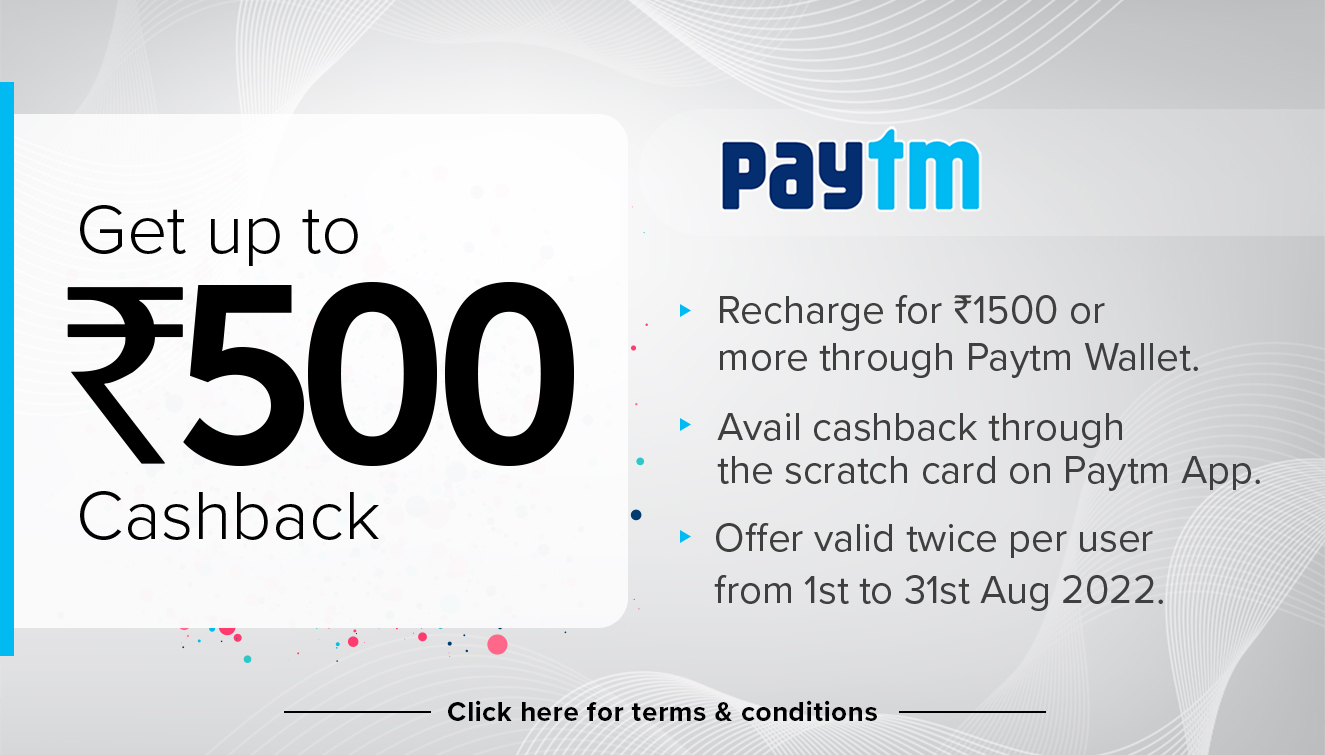
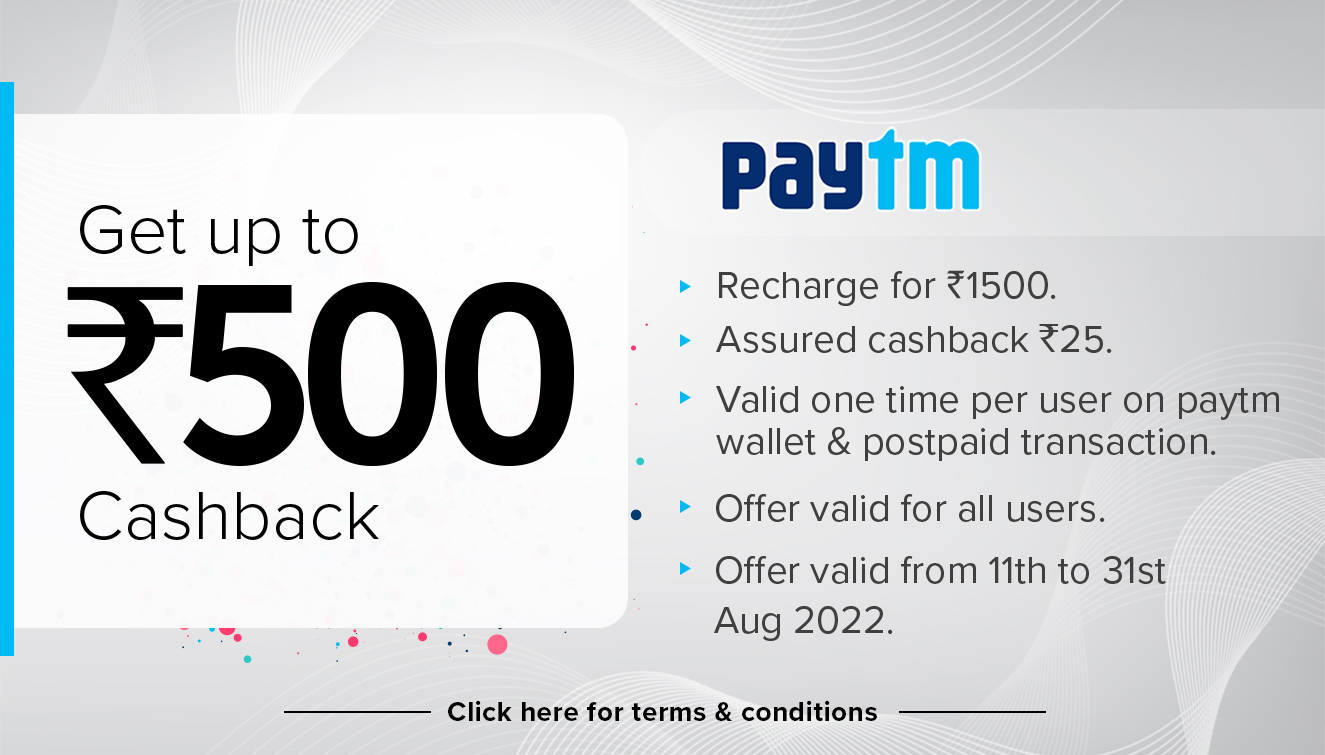
new files updates
new file updates

Changed region(s): [[0.526, 0.3351, 0.9592, 0.853]]

diff --git a/grouphtmls/bankoffer/freecharge.html b/grouphtmls/bankoffer/freecharge.html
@@ -94,30 +94,24 @@
       <div class="col-12 text-center" style="padding-top: 10%">
         <h1>Terms and Conditions</h1>
         <p class="text-left" style="padding-top: 5%; font-weight: normal; font-size: 16px">
-          <strong>Get flat Rs25/- cashback on min. recharge of Rs249/-
-          </strong>
+          <strong>Get flat Rs30/- cashback on min. recharge of Rs499/-</strong>
           <br />
           <br>
           1. To avail this Offer, the customer needs to undertake a successful transaction on bbdaily. <br>
-          2. The customer shall receive 10% cashback, flat Rs25/- on the transaction value in the form of Freecharge
-          Gift Instrument within 72 (seventy-two) hours from the date of the transaction which can be redeemed on the
-          Freecharge website or Freecharge application or any other merchant website wherein Freecharge Balance is
-          acceptable, within 1095 days from the date of the credit and is non-transferable. <br>
+          2. The customer shall receive flat Rs30/- on the transaction value in the form of Freecharge Gift Instrument within 72 
+          (seventy-two) hours from the date of the transaction which can be redeemed on the Freecharge website or Freecharge 
+          application or any other merchant website wherein Freecharge Balance is acceptable, within 1095 days from the date of the credit and is non-transferable. <br>
           3. This offer is applicable on the bbdaily app. <br>
-          4. This cashback Offer is valid from 1st May 2021 to 31st August 2022. <br>
-          5. The Offer is valid once per user per Freecharge Account/device/mobile number till 31st August 2022. <br>
+          4. This cashback Offer is valid from 20th August to 30th September 2022. <br>
+          5. The Offer is valid once per user per Freecharge Account/device/mobile number till 30th September 2022. <br>
           6. The offer is not applicable on payment through UPI. <br>
-          7. In case of order cancellation, a refund by Freecharge Wallet will be processed within 7 to 10 working days.
-          <br>
-          8. In case of a complete or partial order cancellation/return, the entire cashback amount will be deducted
-          from the total refund. <br>
-          9. The customer can use the Freecharge Gift Instrument received under this offer for subsequent transactions
-          on Freecharge. <br>
-          10 Freecharge reserves the right to disqualify any Freecharge Account from the benefits of this offer in case
-          of any illegal, suspicious, fraudulent, or potentially fraudulent transaction/activity or misuse of the Offer.
-          <br>
-          11. Freecharge reserves the right to modify/change all or any of the terms applicable to this offer or
-          discontinue this offer without assigning any reasons or without any prior intimation whatsoever. <br>
+          7. In case of order cancellation, a refund by Freecharge Wallet will be processed within 7 to 10 working days. <br>
+          8. In case of a complete or partial order cancellation/return, the entire cashback amount will be deducted from the total refund. <br>
+          9. The customer can use the Freecharge Gift Instrument received under this offer for subsequent transactions on Freecharge. <br>
+          10 Freecharge reserves the right to disqualify any Freecharge Account from the benefits of this offer in case of any illegal,
+           suspicious, fraudulent, or potentially fraudulent transaction/activity or misuse of the Offer. <br>
+          11. Freecharge reserves the right to modify/change all or any of the terms applicable to this offer or discontinue this offer
+           without assigning any reasons or without any prior intimation whatsoever. <br>
           12. In case of any disputes, Freecharge’s decision shall be final. <br>
           13. This offer is also subject to Freecharge Terms & Conditions available on the Freecharge website. <br>
         </p>

diff --git a/bank.html b/bank.html
@@ -103,20 +103,11 @@
 
   <!-- Navigation ends here -->
 
-  <div class="container">
+  <!-- <div class="container">
     <div class="row mx-auto">
       <div class="col-12">
         <a href="grouphtmls/bankoffer/citi.html"><img class="rounded img-fluid mx-auto d-block"
             src="img/offerbanners/bank/citi.jpg" width="800px" height="400px" /></a>
-      </div>
-    </div>
-  </div>
-
-  <!-- <div class="container">
-    <div class="row mx-auto">
-      <div class="col-12">
-        <a href="grouphtmls/bankoffer/airtel.html"><img class="rounded img-fluid mx-auto d-block"
-            src="img/offerbanners/bank/airtel.jpg" width="800px" height="400px" /></a>
       </div>
     </div>
   </div> -->
@@ -126,15 +117,6 @@
       <div class="col-12">
         <a href="grouphtmls/bankoffer/paytm.html"><img class="rounded img-fluid mx-auto d-block"
             src="img/offerbanners/bank/paytm.jpg" width="800px" height="400px" /></a>
-      </div>
-    </div>
-  </div>
-
-  <div class="container">
-    <div class="row mx-auto">
-      <div class="col-12">
-        <a href="grouphtmls/bankoffer/freecharge.html"><img class="rounded img-fluid mx-auto d-block"
-            src="img/offerbanners/bank/freerecharge.jpg" width="800px" height="400px" /></a>
       </div>
     </div>
   </div>
@@ -160,6 +142,28 @@
   <div class="container">
     <div class="row mx-auto">
       <div class="col-12">
+        <a href="grouphtmls/bankoffer/airtel.html"><img class="rounded img-fluid mx-auto d-block"
+            src="img/offerbanners/bank/airtel.jpg" width="800px" height="400px" /></a>
+      </div>
+    </div>
+  </div>
+
+  <div class="container">
+    <div class="row mx-auto">
+      <div class="col-12">
+        <a href="grouphtmls/bankoffer/freecharge.html"><img class="rounded img-fluid mx-auto d-block"
+            src="img/offerbanners/bank/freerecharge.jpg" width="800px" height="400px" /></a>
+      </div>
+    </div>
+  </div>
+
+ 
+
+ 
+
+  <!-- <div class="container">
+    <div class="row mx-auto">
+      <div class="col-12">
         <a href="grouphtmls/bankoffer/rbl.html"><img class="rounded img-fluid mx-auto d-block"
             src="img/offerbanners/bank/rbl.jpg" width="800px" height="400px" /></a>
       </div>
@@ -173,7 +177,7 @@
             src="img/offerbanners/bank/freerecharge1.jpg" width="800px" height="400px" /></a>
       </div>
     </div>
-  </div>
+  </div> -->
 
 
   <!-- <div class="container">

diff --git a/grouphtmls/bankoffer/mobikwik.html b/grouphtmls/bankoffer/mobikwik.html
@@ -96,19 +96,19 @@
         <p class="text-left" style="padding-top: 5%; font-weight: normal; font-size: 16px">
           <strong>
             Get up to Rs500/- Cashback @ bbdaily on your Mobikwik wallet transaction. <br>
-            Minimum assured cashback is Rs30/-. <br>
-            The minimum order value to avail the cashback is Rs1000. <br>
-            Valid thrice per user during the campaign period. <br>
-            Valid between 1st to 31st August 2022. <br>
             <br />
           </strong>
           1. Cashback shall be credited within 24 Hours of transaction <br>
           2. If the order is canceled or left undelivered at bbdaily's end, bbdaily (not MobiKwik) will initiate a
           refund <br>
-          3. After the refund is initiated, the amount will be credited back to the wallet within 7-10 days <br>
-          4. In case of partial refunds/cancellations, the refund amount will be adjusted with the Cashback received on
+          3. Minimum assured cashback is Rs30/-. <br>
+          4. The minimum order value to avail the cashback is Rs999. <br>
+          5. Valid thrice per user during the campaign period. <br>
+          6. Valid between 1st to 31st August 2022. <br>
+          7. After the refund is initiated, the amount will be credited back to the wallet within 7-10 days <br>
+          8. In case of partial refunds/cancellations, the refund amount will be adjusted with the Cashback received on
           the initial payment <br>
-          5. Full Cashback will be rolled back in case of a full refund <br>
+          9. Full Cashback will be rolled back in case of a full refund <br>
         </p>
         <a href="bbdaily://recharge"><button class="button button1" style="align-items: center">
             Recharge now

diff --git a/grouphtmls/bankoffer/paytm.html b/grouphtmls/bankoffer/paytm.html
@@ -100,11 +100,11 @@
           </strong>
           1. Recharge on bbdaily using Paytm Wallet to earn up to Rs.500/- cashback. The minimum recharge value for the
           transaction will be Rs.1500/-. <br>
-          2. Offer valid twice per user during the offer period. <br>
+          2. Offer valid once per user during the offer period. <br>
           3. Users will be eligible to get cashback on paying through Paytm wallet only. The offer is valid once per
           user during the offer period. <br>
-          4. Offer valid between 1st to 31st August 2022. <br>
-          5. Assured cashback of Rs.30/-. <br>
+          4. Offer valid between 11th to 31st August 2022. <br>
+          5. Assured cashback of Rs.25/-. <br>
           6. Offer valid for users paying through Paytm Wallet on bbdaily. A user will be eligible to get cashback on
           paying through Paytm wallet. <br>
           7. On completion of the transaction of Rs.1500/- or more, the offer needs to be availed under the Cashback &

diff --git a/faq.html b/faq.html
@@ -321,6 +321,14 @@
           bbdaily will refund only for any undelivered items the same day
           before 11:00 PM.
         </p>
+
+        <h6 style="text-align: left">Will I be charged extra if I receive more than the ordered weight ?</h6>
+        <p style="text-align: left"> Yes, you will be charged in case you get more than what you ordered, subject to the following conditions:</p>
+        <ul style="text-align:left">
+          <li>Product ordered should be fruits or vegetables</li>
+          <li>We only charge up to 50% of the extra weight and anything beyond the additional 50% will not be charged to you</li>
+        </ul>
+       <p style="text-align: left">For example, in case you order 100gms coriander and you get 135gms you will be charged for 35gms extra. Whereas, if you get 154gms you will be charged only for 150gms (Capped at 50% excess)</p>
       </div>
     </div>
   </div>

diff --git a/grouphtmls/milkoffer/offer/ahmedabad/acoupon1.html b/grouphtmls/milkoffer/offer/ahmedabad/acoupon1.html
@@ -113,7 +113,7 @@ $(document).ready(function () {
 	
 	</nav>
     
-    <div class="container">
+  <div class="container">
             <div class="row">
                 <div class="col-12 text-left" style="padding-top:10%">
 
